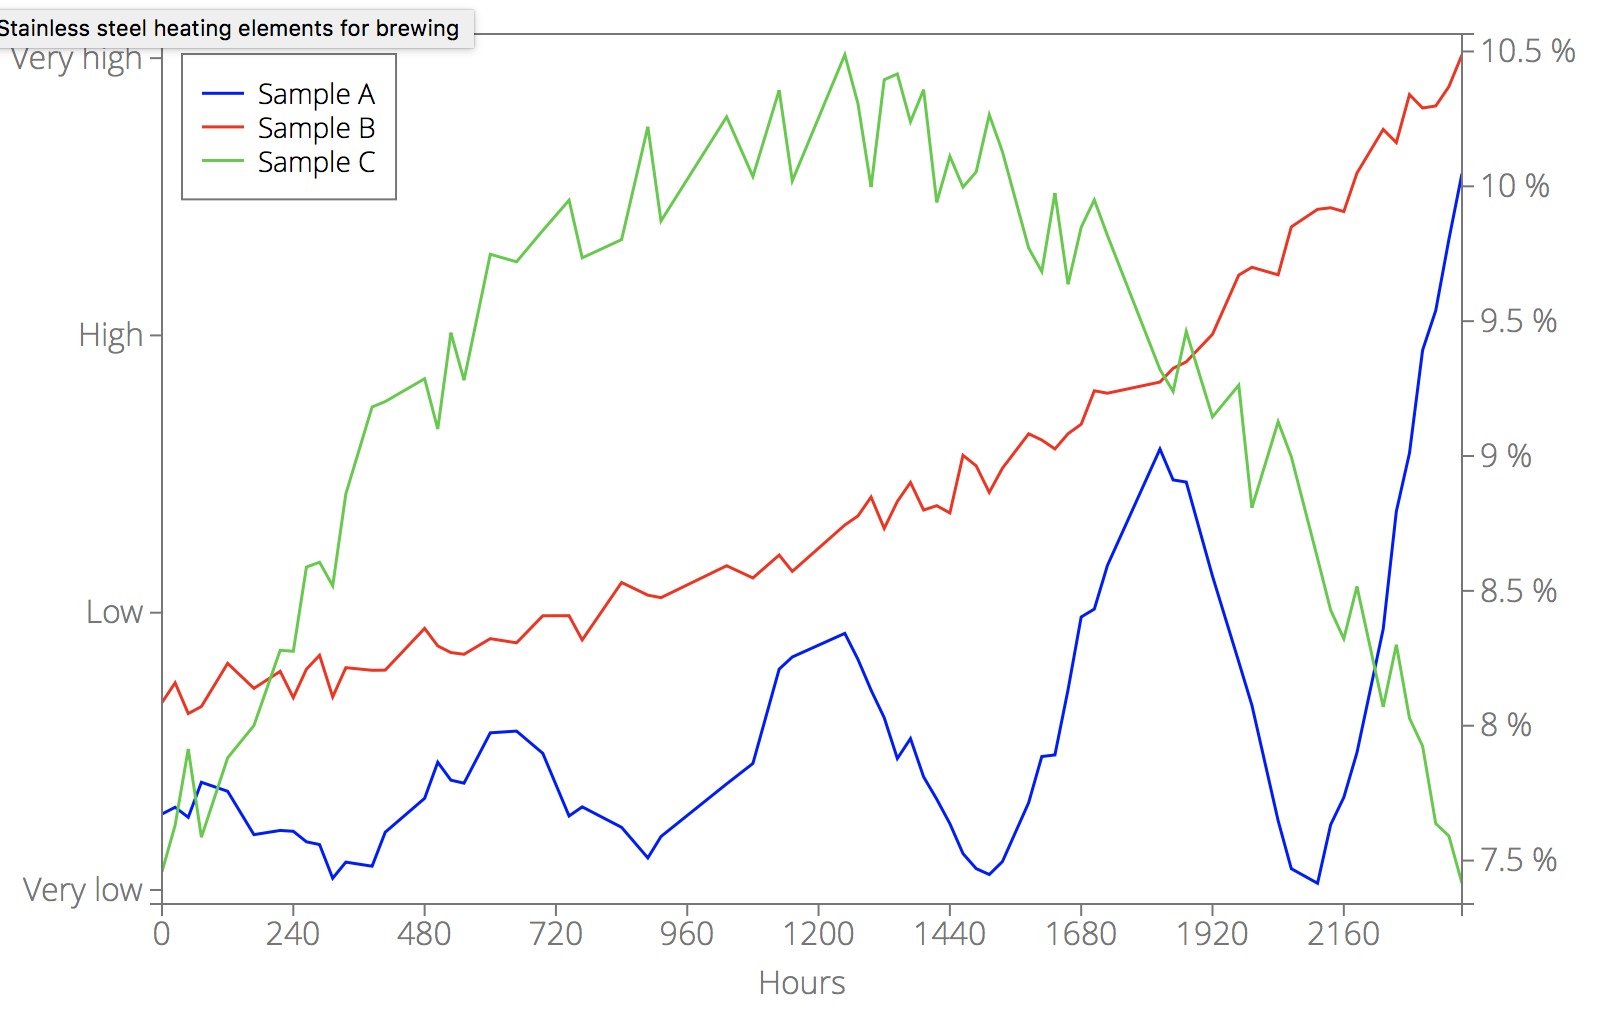
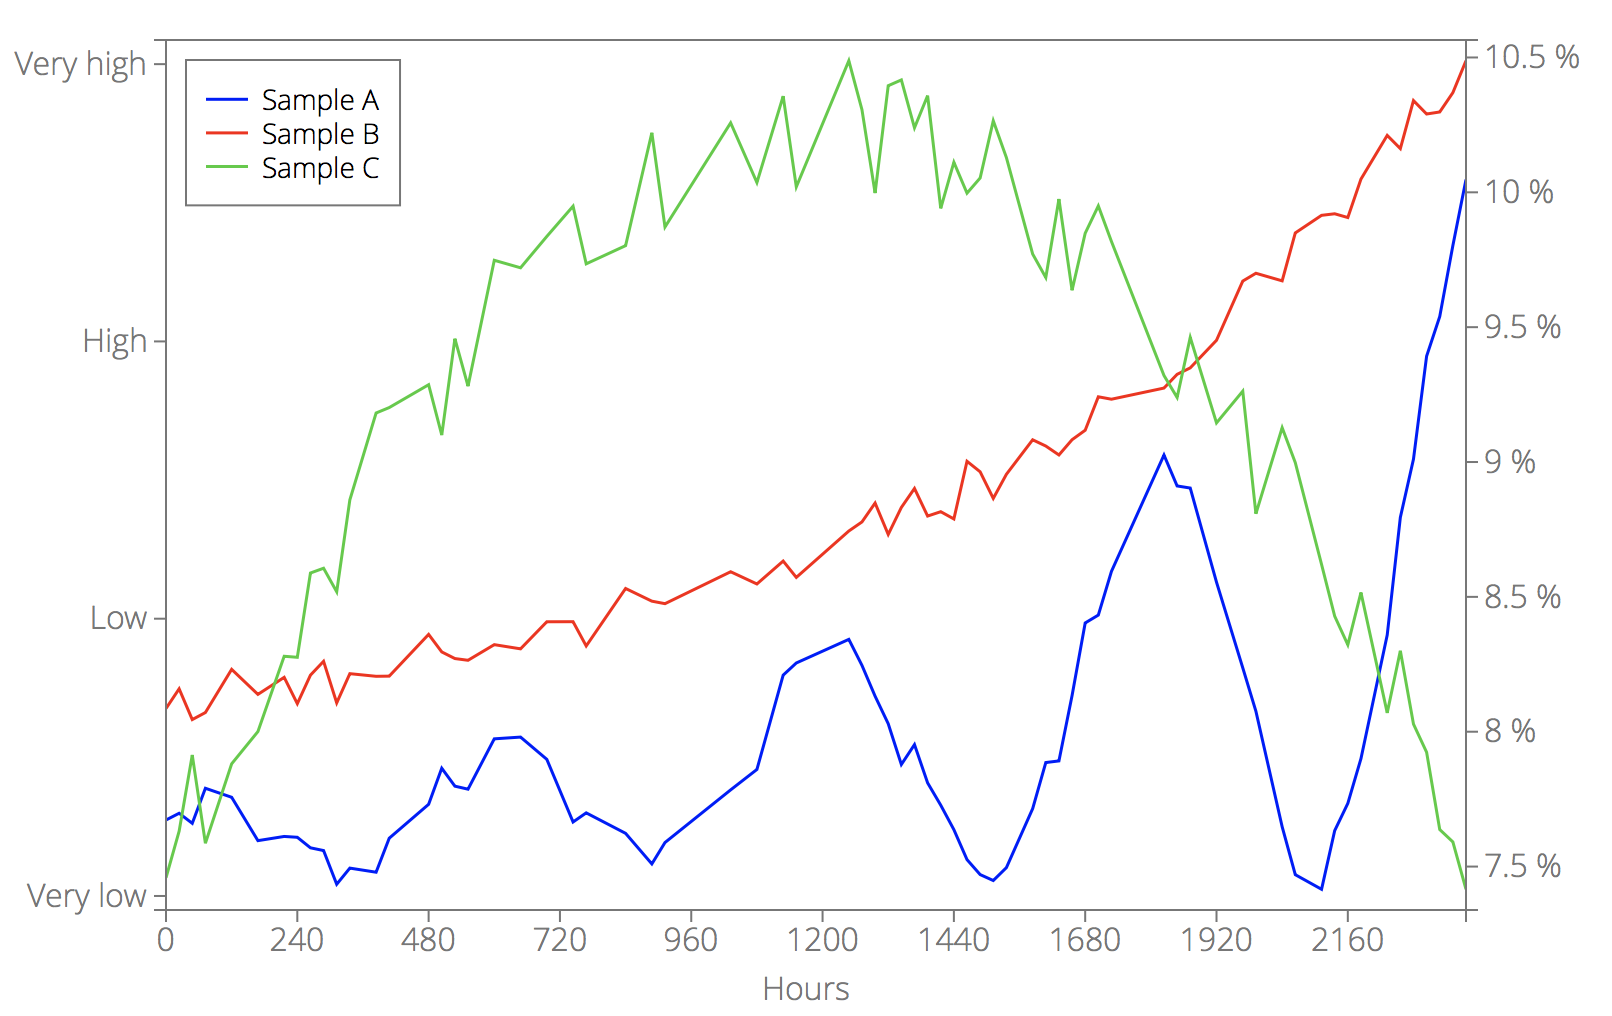
API

diff --git a/tests/test.html b/tests/test.html
@@ -62,16 +62,23 @@
 
 var svg = d3.select("#main-svg");
 
-d3.csv("example_time.csv", function(error, data) {
-    data.forEach(function(d){
-        d.Time = d3.time.format("%Y-%m-%d %H:%M:%S").parse(d.Time)
-    });
-
+d3.csv("example2.csv", function(error, data) {
     var options = {
         data: data,
-        xkey: "Time",
-        xscale_type: "time",
-        xticks: 5,
+        xkey: "Day",
+        line_yaxis: ["left", "left", "right"],
+        xlabel: "Hours",
+        xtick_format: function(data, index){
+            return data*24;
+        },
+        yticks: 3,
+        ytick_format: function(data, index){
+            return ["Very low", "Low", "High", "Very high"][index];
+        },
+        y2tick_format: function(data, index){
+            return data+" %";
+        },
+        margins: {left: 80},
     };
     d3lines.plot(svg, options);
 });
